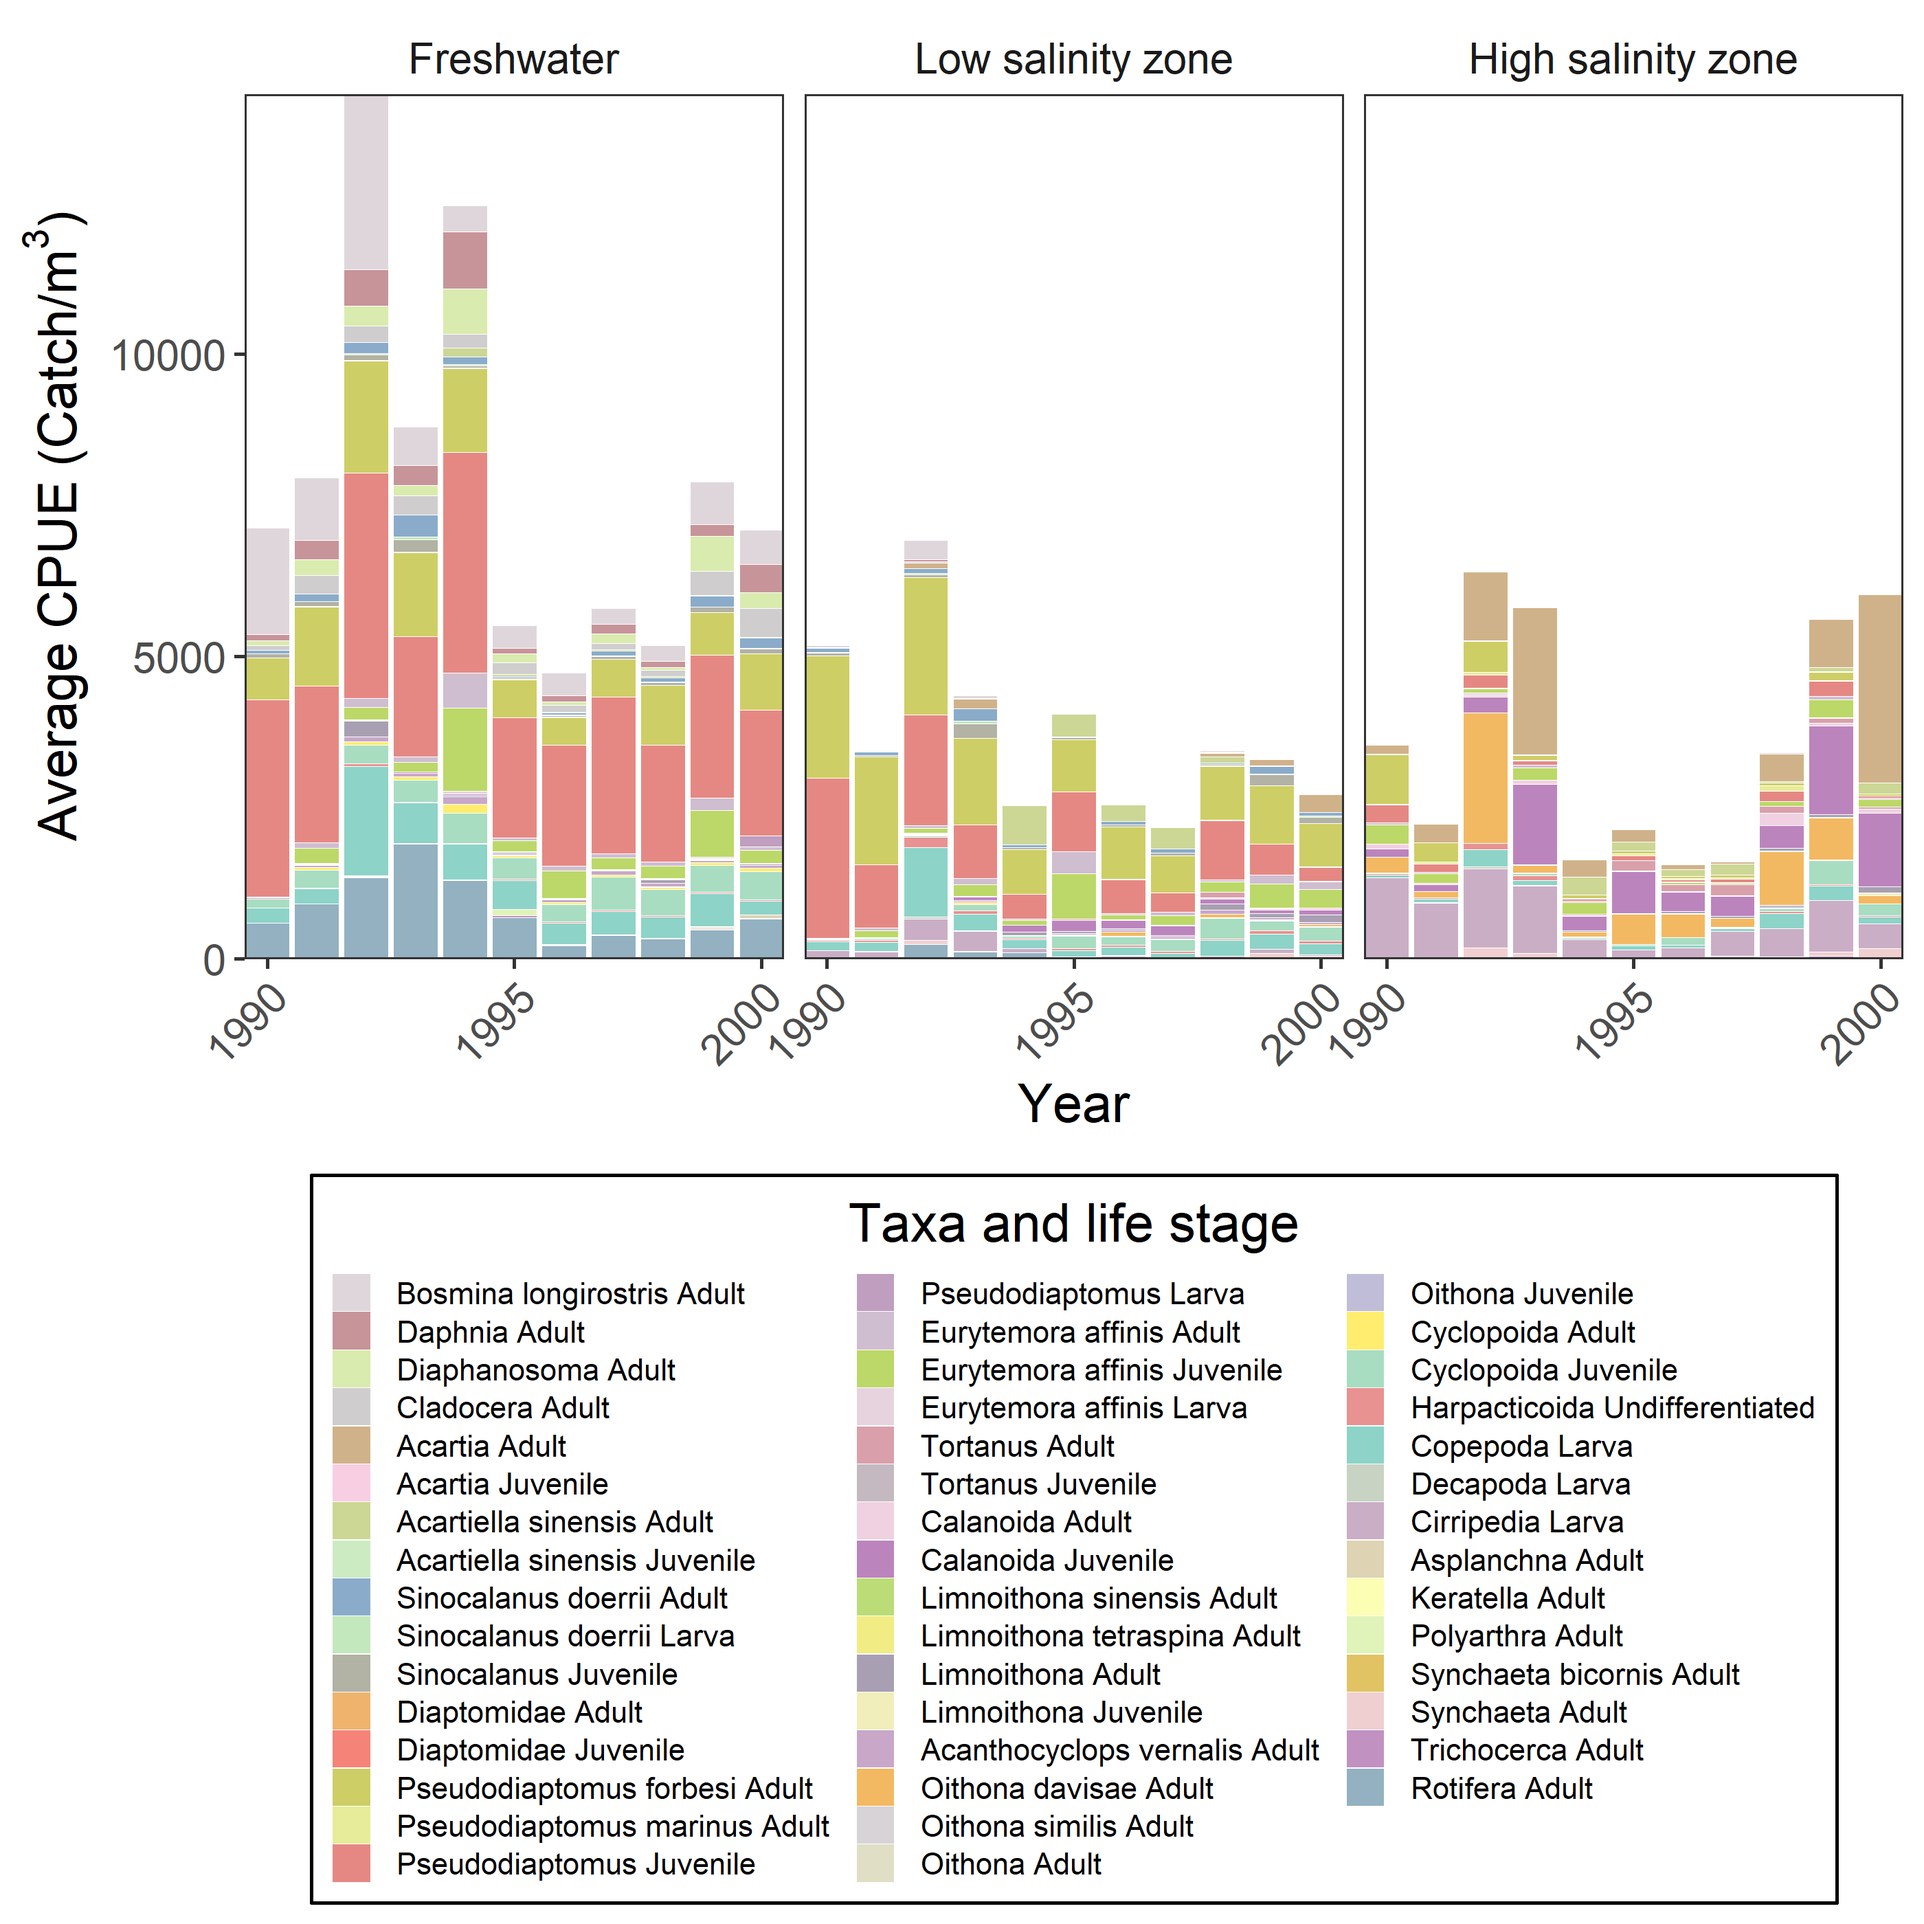
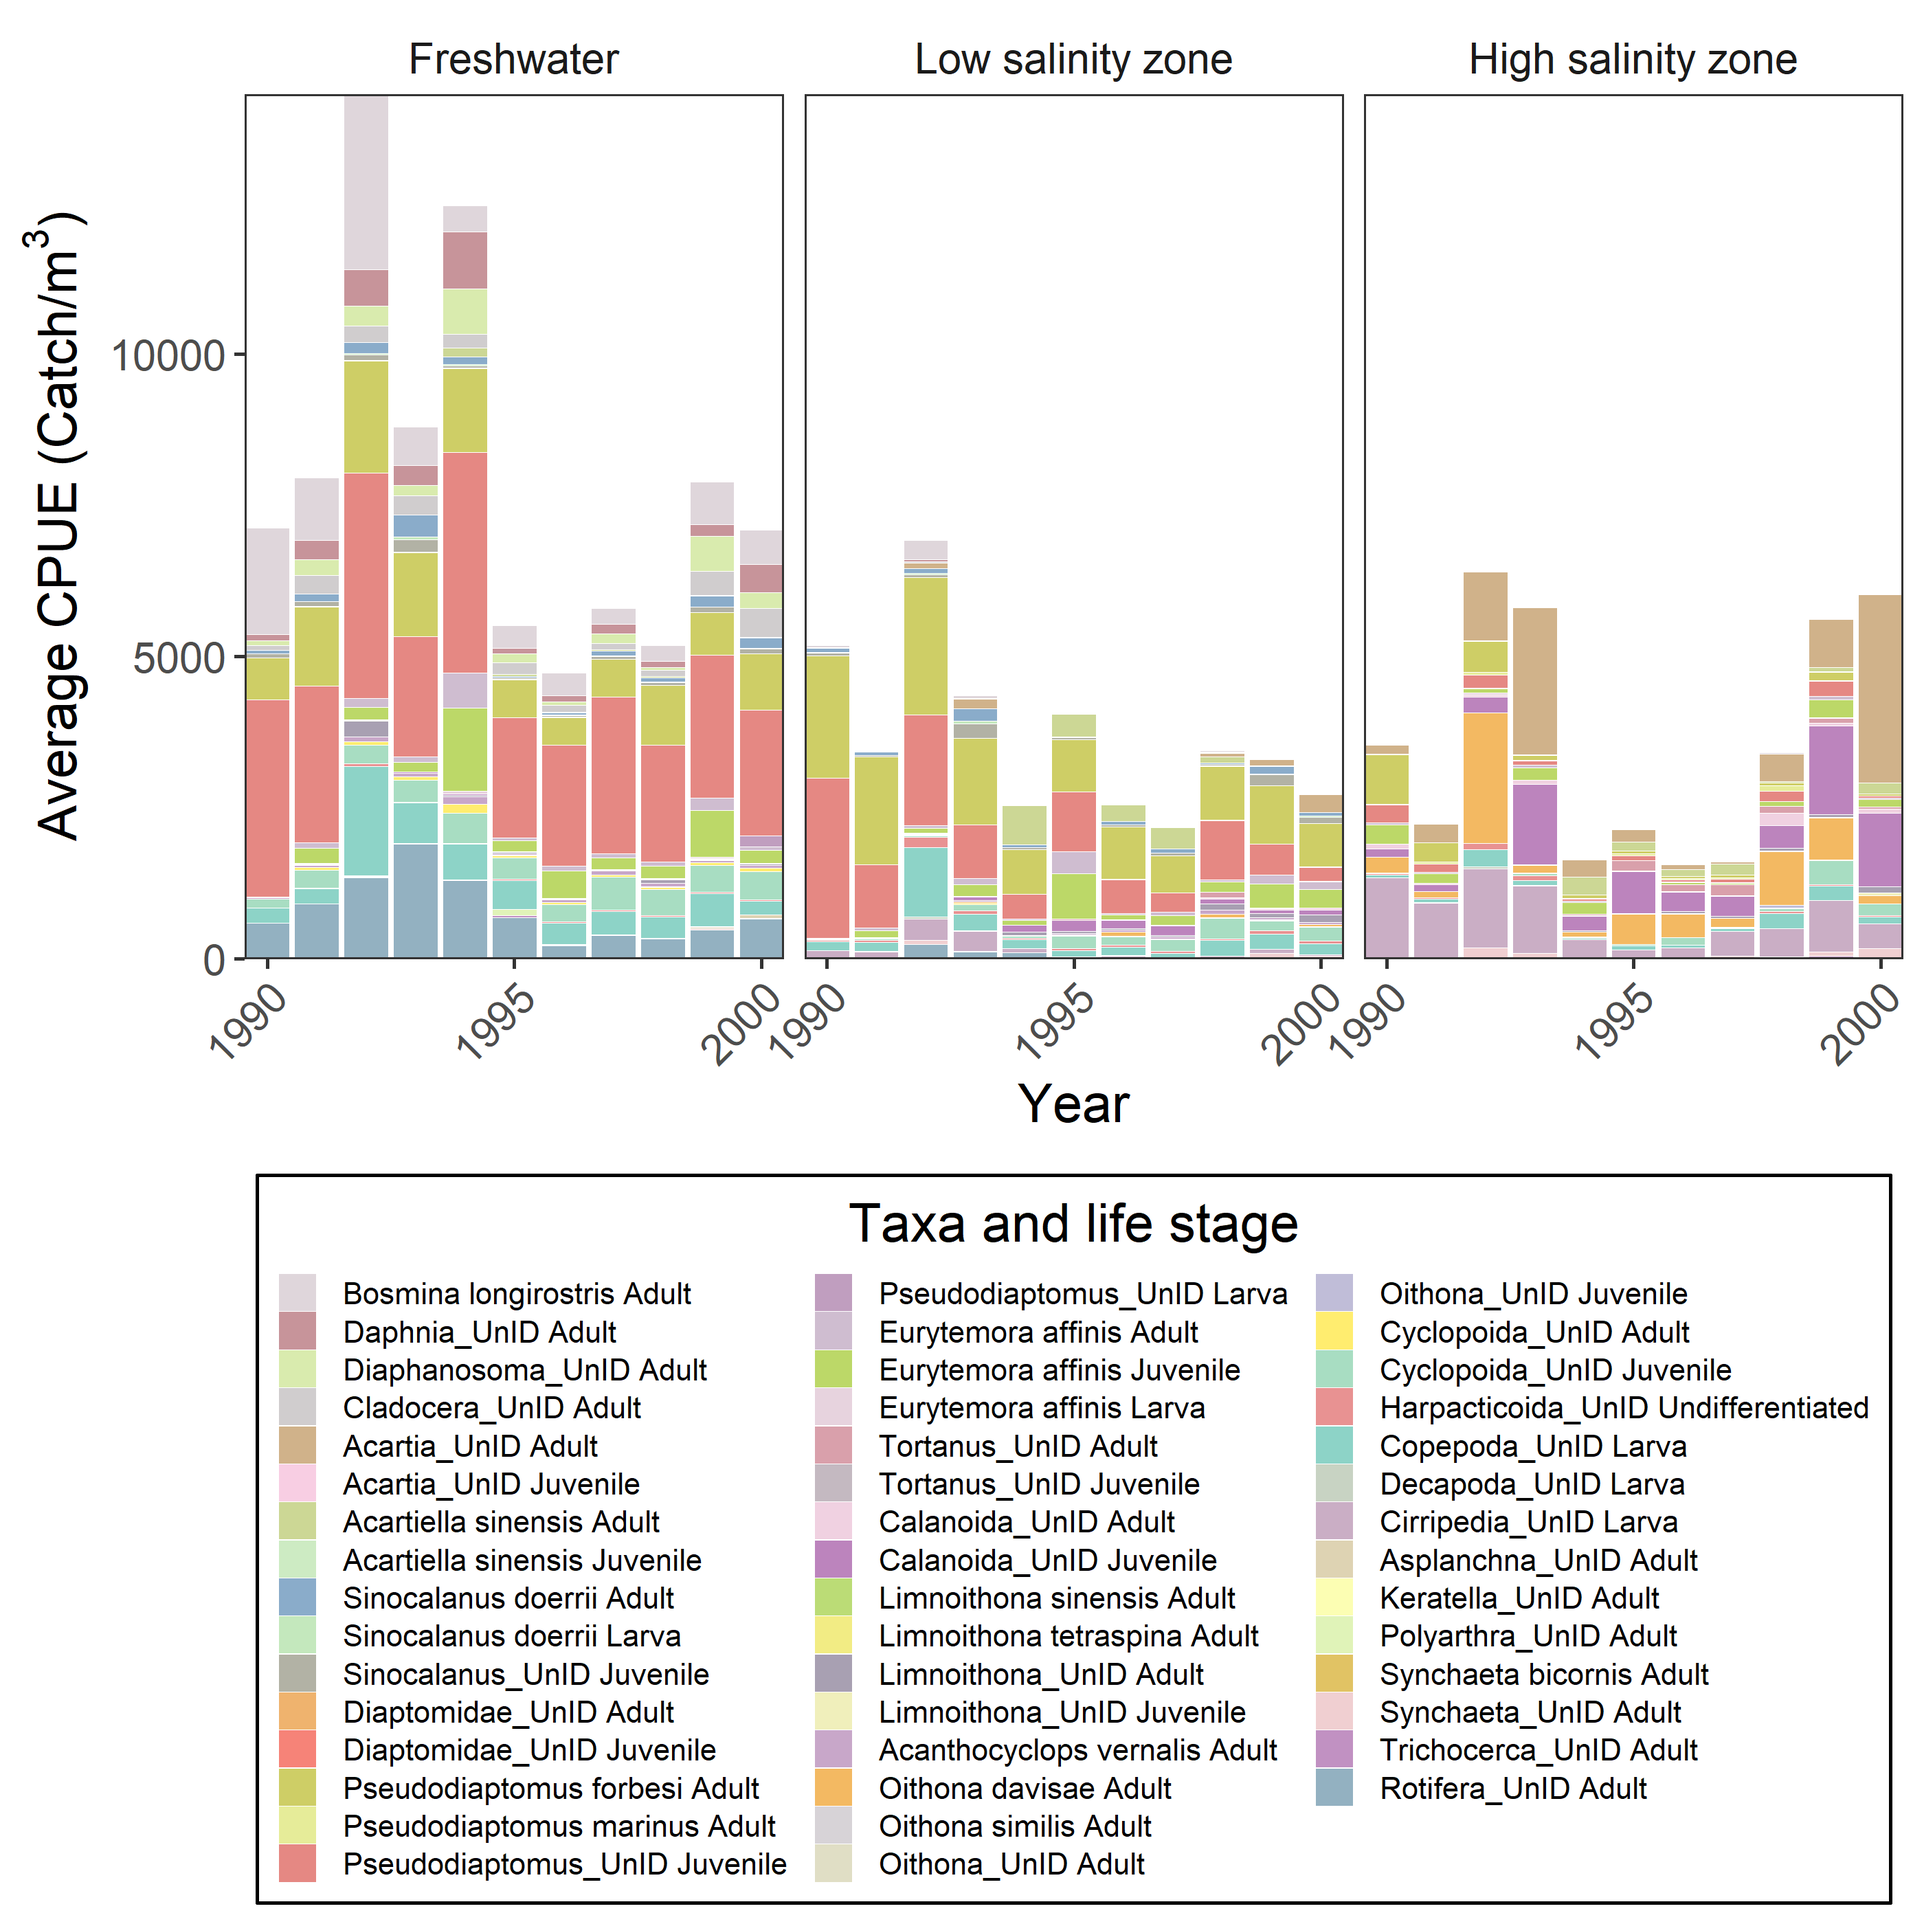
Updated shiny app link

Changed region(s): [[0.1243, 0.6525, 0.9943, 0.9943]]

diff --git a/README.md b/README.md
@@ -32,7 +32,7 @@ respective online sources and converts them to a consistent format. The
 integrates the data according to user-specified parameter choices.
 
 This package is also accessible through a [shiny
-app](https://iepsynthesis.shinyapps.io/zoopsynth) [(code and
+app](https://deltascience.shinyapps.io/zoopsynth) [(code and
 installation instructions for latest version available
 here)](https://github.com/InteragencyEcologicalProgram/ZoopSynth). The
 app is a GUI (graphical user interface) that allows users without R
@@ -128,14 +128,14 @@ str(MyZoops)
 #>  $ SizeClass   : chr  "Meso" "Meso" "Meso" "Meso" ...
 #>  $ Volume      : num  7.91 7.91 7.91 7.91 7.91 ...
 #>  $ Lifestage   : chr  "Adult" "Adult" "Adult" "Adult" ...
-#>  $ Taxname     : chr  "Acanthocyclops vernalis" "Acartia" "Acartiella sinensis" "Asplanchna" ...
+#>  $ Taxname     : chr  "Acanthocyclops vernalis" "Acartia_UnID" "Acartiella sinensis" "Asplanchna_UnID" ...
 #>  $ Phylum      : chr  "Arthropoda" "Arthropoda" "Arthropoda" "Rotifera" ...
 #>  $ Class       : chr  "Copepoda" "Copepoda" "Copepoda" "Eurotatoria" ...
 #>  $ Order       : chr  "Cyclopoida" "Calanoida" "Calanoida" "Ploima" ...
 #>  $ Family      : chr  "Cyclopidae" "Acartiidae" "Acartiidae" "Asplanchnidae" ...
 #>  $ Genus       : chr  "Acanthocyclops" "Acartia" "Acartiella" "Asplanchna" ...
 #>  $ Species     : chr  "Acanthocyclops vernalis" NA "Acartiella sinensis" NA ...
-#>  $ Taxlifestage: chr  "Acanthocyclops vernalis Adult" "Acartia Adult" "Acartiella sinensis Adult" "Asplanchna Adult" ...
+#>  $ Taxlifestage: chr  "Acanthocyclops vernalis Adult" "Acartia_UnID Adult" "Acartiella sinensis Adult" "Asplanchna_UnID Adult" ...
 #>  $ SampleID    : chr  "EMP NZ098 1990-10-08" "EMP NZ098 1990-10-08" "EMP NZ098 1990-10-08" "EMP NZ098 1990-10-08" ...
 #>  $ CPUE        : num  0 0 0 0 1315 ...
 #>  $ Undersampled: logi  FALSE FALSE FALSE TRUE FALSE FALSE ...
